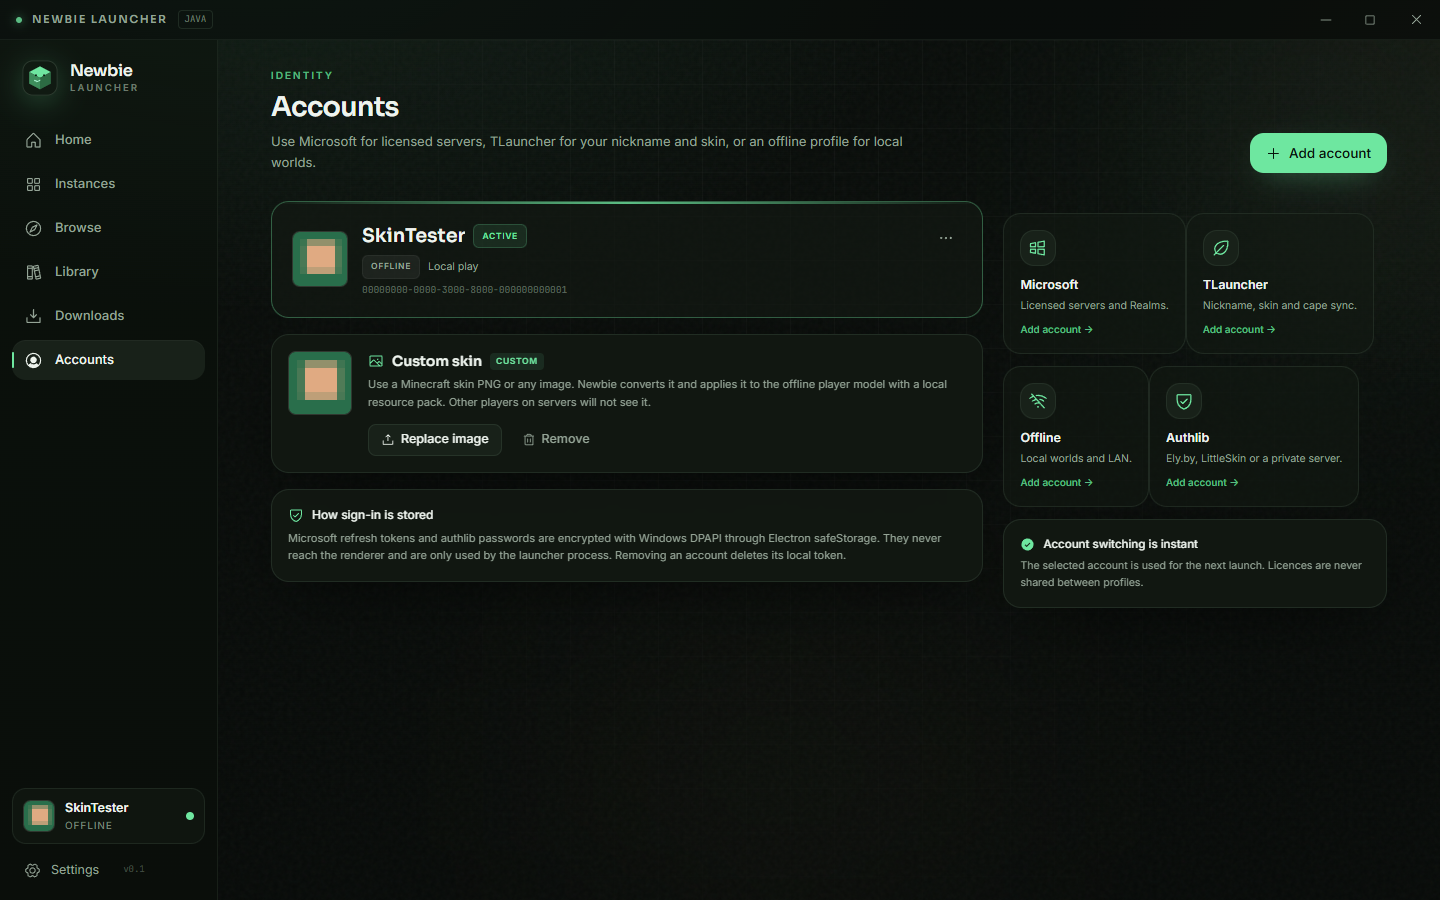
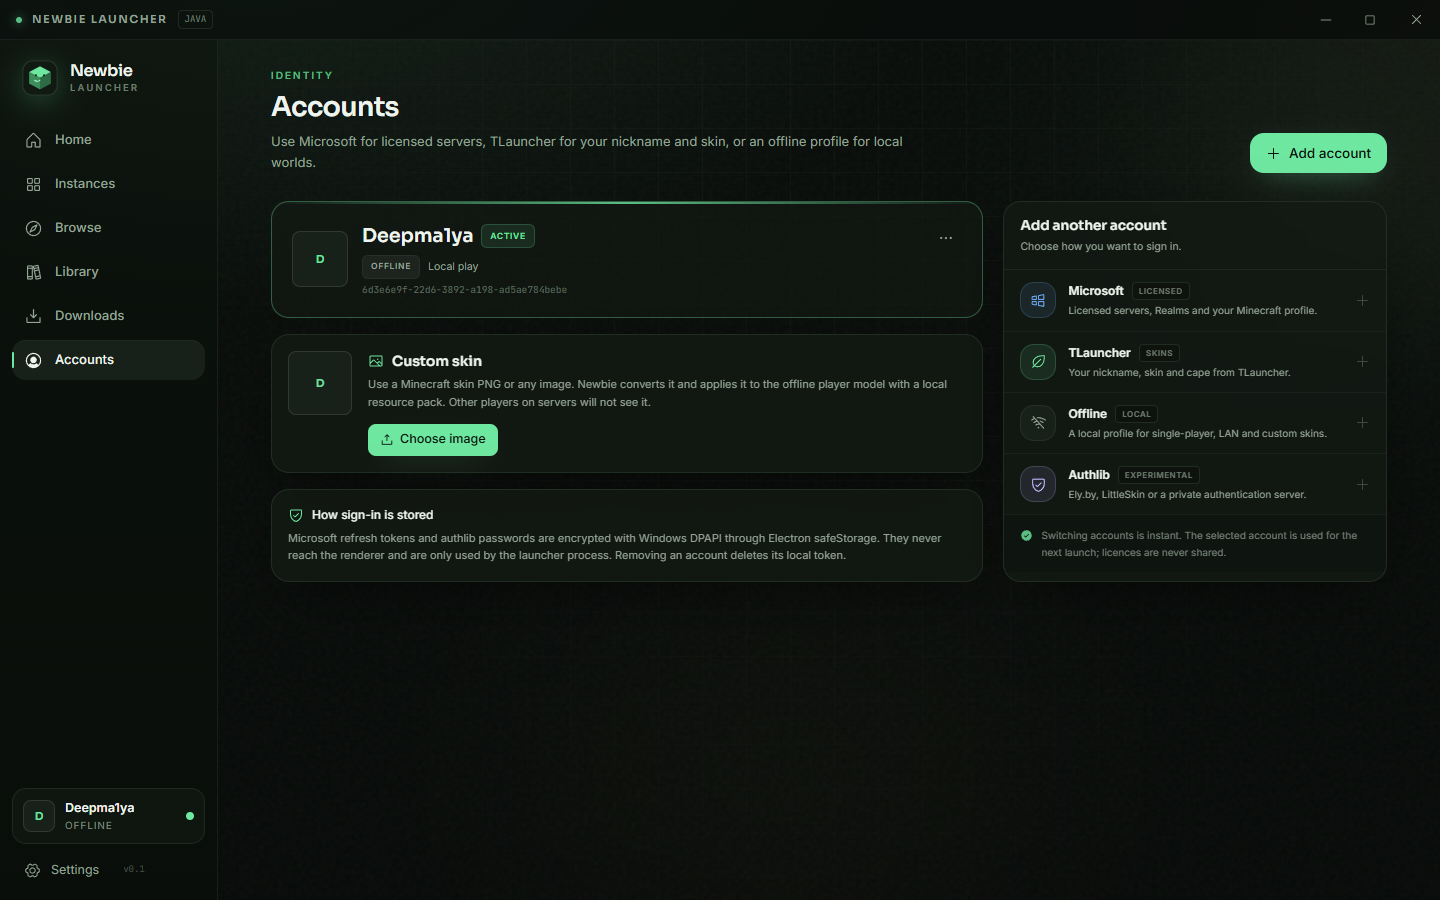
style: consolidate account type cards into one panel

diff --git a/src/renderer/pages/AccountsPage.tsx b/src/renderer/pages/AccountsPage.tsx
@@ -41,24 +41,18 @@ export function AccountsPage() {
       />
 
       {accounts.length === 0 ? (
-        <div className="space-y-5">
+        <div className="grid gap-5 lg:grid-cols-[1.1fr_0.9fr]">
           <EmptyState
             icon={<UserCircle size={22} />}
             title="No accounts yet"
-            description="Add a Microsoft account for online servers, or start with a local offline profile. You can switch at any time."
+            description="Choose a Microsoft account for licensed servers, or start with a local offline profile. You can switch at any time."
             action={
-              <div className="flex flex-wrap justify-center gap-2">
-                <Button variant="primary" onClick={() => openAdd('microsoft')} icon={<WindowsLogo size={15} />}>Microsoft</Button>
-                <Button variant="secondary" onClick={() => openAdd('tlauncher')} icon={<Leaf size={15} />}>TLauncher</Button>
-                <Button variant="ghost" onClick={() => openAdd('offline')} icon={<WifiSlash size={15} />}>Offline</Button>
-              </div>
+              <Button variant="primary" onClick={() => openAdd('microsoft')} icon={<Plus size={15} />}>
+                Add your first account
+              </Button>
             }
           />
-          <div className="grid gap-3 md:grid-cols-3">
-            <TypeCard icon={<WindowsLogo size={20} />} title="Microsoft" text="Official sign-in. Licensed servers, Realms and your Mojang profile." onClick={() => openAdd('microsoft')} />
-            <TypeCard icon={<Leaf size={20} />} title="TLauncher" text="Your TLauncher nickname with skin and cape sync. Offline play." onClick={() => openAdd('tlauncher')} />
-            <TypeCard icon={<WifiSlash size={20} />} title="Offline" text="A local username for single-player and LAN. No login required." onClick={() => openAdd('offline')} />
-          </div>
+          <AccountTypePanel onAdd={openAdd} />
         </div>
       ) : (
         <div className="grid gap-5 lg:grid-cols-[1.3fr_0.7fr]">
@@ -91,20 +85,7 @@ export function AccountsPage() {
             </Card>
           </div>
 
-          <div className="space-y-3">
-            <TypeCard icon={<WindowsLogo size={20} />} title="Microsoft" text="Licensed servers and Realms." onClick={() => openAdd('microsoft')} />
-            <TypeCard icon={<Leaf size={20} />} title="TLauncher" text="Nickname, skin and cape sync." onClick={() => openAdd('tlauncher')} />
-            <TypeCard icon={<WifiSlash size={20} />} title="Offline" text="Local worlds and LAN." onClick={() => openAdd('offline')} />
-            <TypeCard icon={<ShieldCheck size={20} />} title="Authlib" text="Ely.by, LittleSkin or a private server." onClick={() => openAdd('authlib')} />
-            <Card className="p-4">
-              <div className="flex items-center gap-2 text-[11.5px] font-medium text-ink">
-                <CheckCircle size={15} className="text-grass" weight="fill" /> Account switching is instant
-              </div>
-              <p className="mt-1 text-[10.5px] leading-relaxed text-muted">
-                The selected account is used for the next launch. Licences are never shared between profiles.
-              </p>
-            </Card>
-          </div>
+          <AccountTypePanel onAdd={openAdd} />
         </div>
       )}
     </div>
@@ -175,26 +156,81 @@ function CustomSkinCard({ account, onChanged }: { account: AccountSummary; onCha
   )
 }
 
-function TypeCard({
-  icon,
-  title,
-  text,
-  onClick
+function AccountTypePanel({
+  onAdd
 }: {
-  icon: React.ReactNode
-  title: string
-  text: string
-  onClick: () => void
+  onAdd: (tab: 'microsoft' | 'tlauncher' | 'offline' | 'authlib') => void
 }) {
+  const options = [
+    {
+      tab: 'microsoft' as const,
+      title: 'Microsoft',
+      text: 'Licensed servers, Realms and your Minecraft profile.',
+      badge: 'Licensed',
+      icon: WindowsLogo,
+      tone: 'border-info/20 bg-info/10 text-info'
+    },
+    {
+      tab: 'tlauncher' as const,
+      title: 'TLauncher',
+      text: 'Your nickname, skin and cape from TLauncher.',
+      badge: 'Skins',
+      icon: Leaf,
+      tone: 'border-grass/20 bg-grass/10 text-grass'
+    },
+    {
+      tab: 'offline' as const,
+      title: 'Offline',
+      text: 'A local profile for single-player, LAN and custom skins.',
+      badge: 'Local',
+      icon: WifiSlash,
+      tone: 'border-line/60 bg-elevated text-muted'
+    },
+    {
+      tab: 'authlib' as const,
+      title: 'Authlib',
+      text: 'Ely.by, LittleSkin or a private authentication server.',
+      badge: 'Experimental',
+      icon: ShieldCheck,
+      tone: 'border-[#C4B5FD]/20 bg-[#C4B5FD]/10 text-[#C4B5FD]'
+    }
+  ]
+
   return (
-    <button
-      onClick={onClick}
-      className="card-hover rounded-2xl border border-line/55 bg-card/55 p-4 text-left"
-    >
-      <span className="flex h-9 w-9 items-center justify-center rounded-xl border border-line/60 bg-elevated text-grass">{icon}</span>
-      <span className="mt-2.5 block text-[12.5px] font-semibold text-ink">{title}</span>
-      <span className="mt-0.5 block text-[10.5px] leading-relaxed text-muted">{text}</span>
-      <span className="mt-2 block text-[10px] font-medium text-grass/80">Add account →</span>
-    </button>
+    <Card className="overflow-hidden p-0">
+      <div className="border-b border-line/45 px-4 py-3.5">
+        <h2 className="font-display text-[13.5px] font-semibold text-ink">Add another account</h2>
+        <p className="mt-0.5 text-[10.5px] leading-relaxed text-muted">Choose how you want to sign in.</p>
+      </div>
+      <div className="divide-y divide-line/35">
+        {options.map((option) => (
+          <button
+            key={option.tab}
+            type="button"
+            aria-label={`Add ${option.title} account`}
+            onClick={() => onAdd(option.tab)}
+            className="group flex w-full items-center gap-3 px-4 py-3 text-left transition-colors hover:bg-white/[0.035] focus-visible:bg-white/[0.04]"
+          >
+            <span className={`flex h-9 w-9 shrink-0 items-center justify-center rounded-xl border ${option.tone}`}>
+              <option.icon size={17} />
+            </span>
+            <span className="min-w-0 flex-1">
+              <span className="flex flex-wrap items-center gap-2">
+                <span className="text-[12px] font-semibold text-ink">{option.title}</span>
+                <span className="rounded border border-line/60 bg-canvas/40 px-1.5 py-0.5 text-[8px] font-semibold uppercase tracking-[0.07em] text-muted/70">
+                  {option.badge}
+                </span>
+              </span>
+              <span className="mt-0.5 block text-[10px] leading-relaxed text-muted">{option.text}</span>
+            </span>
+            <Plus size={15} className="shrink-0 text-muted/35 transition-colors group-hover:text-grass" />
+          </button>
+        ))}
+      </div>
+      <div className="flex items-start gap-2 border-t border-line/35 bg-canvas/25 px-4 py-3 text-[10px] leading-relaxed text-muted/75">
+        <CheckCircle size={13} className="mt-0.5 shrink-0 text-grass/80" weight="fill" />
+        <span>Switching accounts is instant. The selected account is used for the next launch; licences are never shared.</span>
+      </div>
+    </Card>
   )
 }

diff --git a/src/shared/constants.ts b/src/shared/constants.ts
@@ -1,6 +1,6 @@
 export const APP_NAME = 'Newbie Launcher'
 export const APP_ID = 'com.newbielauncher.app'
-export const APP_VERSION = '0.1.7'
+export const APP_VERSION = '0.1.8'
 export const GITHUB_OWNER = 'Deepma1ya'
 export const GITHUB_REPO = 'Newbie-Launcher'
 export const GITHUB_URL = `https://github.com/${GITHUB_OWNER}/${GITHUB_REPO}`

diff --git a/docs/release-notes.md b/docs/release-notes.md
@@ -1,12 +1,13 @@
-# Newbie Launcher 0.1.7
+# Newbie Launcher 0.1.8
 
-Account and instance menu fixes.
+Account page organization.
 
-## Fixed
+## Changed
 
-- The three-dot menu on account cards is no longer clipped by the card's rounded corners.
-- Remove/Refresh menu items can extend beyond the card boundary.
-- Instance card menus use the same corrected stacking and clipping behavior.
-- Menus are raised above neighboring cards and their backdrop.
+- The four large account-type cards are now one compact **Add another account** panel.
+- Each account type is a single clickable row with an icon, short description and badge.
+- Removed the repeated “Add account →” links.
+- Moved the account-switching explanation into the panel footer.
+- The no-accounts screen now uses one primary CTA plus the same organized type list instead of duplicating actions.
 
-Everything from 0.1.6 (custom offline skins) is included.
+Everything from 0.1.7 (unclipped card menus) and 0.1.6 (custom offline skins) is included.
